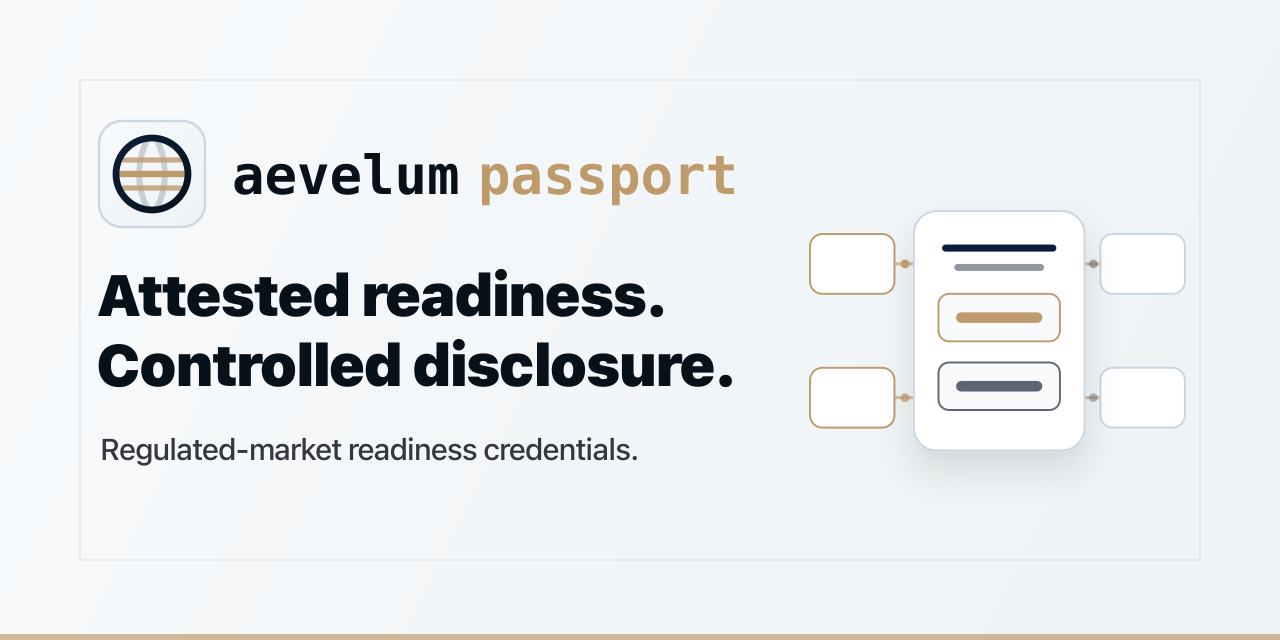
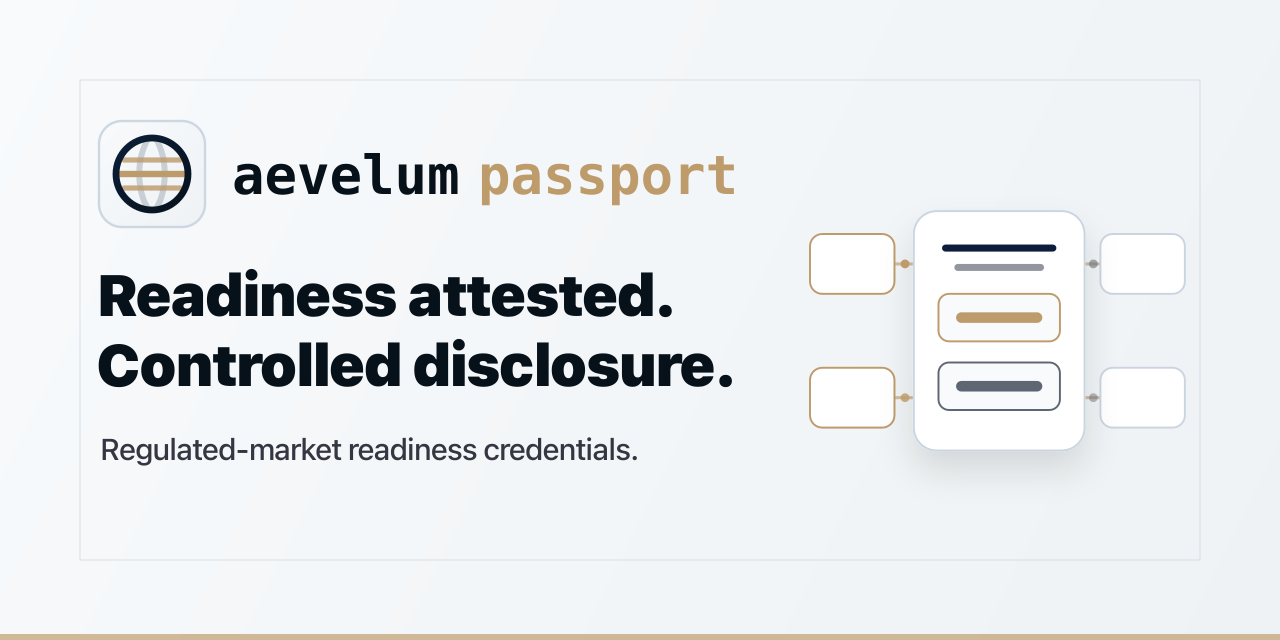
Use readiness-attested terminology
Replace public attested-readiness wording with readiness-attested/readiness-attestation copy across docs, gates, hardening metadata, generated reports, and visual assets.

Validated with npm run ci.

Changed region(s): [[0.0625, 0.4062, 0.5312, 0.5]]

diff --git a/docs/00_product_thesis.md b/docs/00_product_thesis.md
@@ -2,15 +2,15 @@
 
 Aevelum Passport is the public Canton/Daml foundation for private regulated-market readiness credentials. Collateral capacity is the first credential family.
 
-The product lets institutions issue, hold, present, bind, revoke, and audit externally attested readiness credentials for regulated-market workflows. Supported readiness families include participant eligibility, license or registration attestations, venue access readiness, product eligibility, operational capability, disclosure consent, settlement or clearing readiness evidence, and collateral capacity readiness.
+The product lets institutions issue, hold, present, bind, revoke, and audit readiness-attested credentials backed by external evidence for regulated-market workflows. Supported readiness families include participant eligibility, license or registration attestations, venue access readiness, product eligibility, operational capability, disclosure consent, settlement or clearing readiness evidence, and collateral capacity readiness.
 
 ## One-sentence UVP
 
-Passport lets institutions present attested readiness on Canton without exposing underlying evidence, legal files, operational files, or collateral inventory.
+Passport lets institutions present readiness attestations on Canton without exposing underlying evidence, legal files, operational files, or collateral inventory.
 
 ## Wedge
 
-Passport occupies the attested readiness layer:
+Passport occupies the readiness-attested layer:
 
 ```text
 external legal, regulatory, operational, custody, settlement, clearing, or collateral evidence
@@ -37,4 +37,4 @@ external legal, regulatory, operational, custody, settlement, clearing, or colla
 
 ## Design boundary
 
-Passport records attested readiness and scoped evidence only. Passport does not grant licenses, register participants, approve legal compliance, admit participants to a venue, execute repo, execute securities-lending trades, form trades, match orders, operate a venue, run a margin engine, settle transactions, clear transactions, custody assets, transfer collateral, transfer assets, issue tokens, optimize collateral, make credit decisions, operate a wallet, integrate production identity, provide live external integration, implement ZK proofs, or prove legal title.
+Passport records readiness attestations and scoped evidence only. Passport does not grant licenses, register participants, approve legal compliance, admit participants to a venue, execute repo, execute securities-lending trades, form trades, match orders, operate a venue, run a margin engine, settle transactions, clear transactions, custody assets, transfer collateral, transfer assets, issue tokens, optimize collateral, make credit decisions, operate a wallet, integrate production identity, provide live external integration, implement ZK proofs, or prove legal title.

diff --git a/README.md b/README.md
@@ -8,7 +8,7 @@ Aevelum Passport is the public Canton/Daml foundation for private regulated-mark
 
 It models readiness accounts, readiness policies, externally attested credential requests, credential issuance, scoped presentation, context binding, revocation, expiry-by-validity, venue-readiness evidence wrappers, and scoped audit disclosure. The existing collateral-capacity account, policy, presentation, reservation, residual capacity, revocation, expiry, dispute metadata, reservation handoff metadata, and audit disclosure templates remain available as the first credential family and demo workflow.
 
-Passport records attested readiness and scoped evidence only. Passport may record a reservation handoff notice. Passport does not grant licenses or legal permissions. Passport does not admit participants to a venue. Passport does not determine legal compliance. Passport does not operate a venue, exchange, ATS, SEF, MTF, regulated market, matching engine, order book, clearinghouse, custodian, settlement system, wallet, token issuer, legal-title oracle, credit engine, or production identity system. Passport does not execute the downstream trade. Passport does not custody, transfer, settle, clear, or move collateral or assets.
+Passport records readiness attestations and scoped evidence only. Passport may record a reservation handoff notice. Passport does not grant licenses or legal permissions. Passport does not admit participants to a venue. Passport does not determine legal compliance. Passport does not operate a venue, exchange, ATS, SEF, MTF, regulated market, matching engine, order book, clearinghouse, custodian, settlement system, wallet, token issuer, legal-title oracle, credit engine, or production identity system. Passport does not execute the downstream trade. Passport does not custody, transfer, settle, clear, or move collateral or assets.
 
 Readiness and collateral-capacity contracts use typed Daml `Time` fields where ledger-time validation matters. Existing ISO timestamp text fields remain display and interop metadata; downstream Canton/Daml consumers should compare typed `Time` fields against ledger time.
 

diff --git a/.agents/skills/passport-hardening-loop/SKILL.md b/.agents/skills/passport-hardening-loop/SKILL.md
@@ -9,7 +9,7 @@ description: Use inside the Passport repo while developing to keep invariants, a
 
 Use this skill when changing Passport code, Daml templates, interop adapters, release scripts, CI, or docs that affect security or architectural invariants.
 
-Passport scope is regulated-market readiness credentialing. Collateral capacity is the first credential family. Additional readiness credential families may include participant eligibility, license or registration attestations, venue access readiness, product eligibility, operational capability, disclosure consent, and settlement or clearing readiness evidence. These credentials record externally attested readiness only; Passport does not grant licenses, admit participants to a venue, operate a venue, execute trades, form trades, match orders, clear, settle, custody, transfer assets, issue tokens, operate wallets, determine legal title, decide credit, or determine legal compliance.
+Passport scope is regulated-market readiness credentialing. Collateral capacity is the first credential family. Additional readiness credential families may include participant eligibility, license or registration attestations, venue access readiness, product eligibility, operational capability, disclosure consent, and settlement or clearing readiness evidence. These credentials record external readiness attestations only; Passport does not grant licenses, admit participants to a venue, operate a venue, execute trades, form trades, match orders, clear, settle, custody, transfer assets, issue tokens, operate wallets, determine legal title, decide credit, or determine legal compliance.
 
 Adapter readiness changes are hardening-sensitive. If a change touches adapter behavior, adapter docs, interop reports, framework claims, partner/sandbox/production language, or readiness level, keep readiness metadata, the invariant map, frontier, hardening round or change log, generated interop report, and hardening gate in sync.
 

diff --git a/docs/02_foundation_release_scope.md b/docs/02_foundation_release_scope.md
@@ -4,7 +4,7 @@
 
 Aevelum Passport is the public Canton/Daml foundation for private regulated-market readiness credentials. Collateral capacity is the first credential family.
 
-Passport records attested readiness and scoped evidence only. It models readiness accounts, readiness policies, credential requests, credential issuance, scoped presentation, binding to workflow or venue-profile context, revocation, expiry-by-validity, audit disclosure, and venue-readiness evidence wrappers. It also preserves collateral-capacity accounts, collateral policies, counterparty-scoped presentation, bounded reservation, residual capacity, revocation, expiry, dispute metadata, reservation handoff metadata, and scoped audit disclosure as the first credential family. Passport may emit bounded interop artifacts and adapter-readiness reports.
+Passport records readiness attestations and scoped evidence only. It models readiness accounts, readiness policies, credential requests, credential issuance, scoped presentation, binding to workflow or venue-profile context, revocation, expiry-by-validity, audit disclosure, and venue-readiness evidence wrappers. It also preserves collateral-capacity accounts, collateral policies, counterparty-scoped presentation, bounded reservation, residual capacity, revocation, expiry, dispute metadata, reservation handoff metadata, and scoped audit disclosure as the first credential family. Passport may emit bounded interop artifacts and adapter-readiness reports.
 
 Passport may record a reservation handoff notice. The notice is for downstream readiness metadata only. Passport does not grant licenses or legal permissions. Passport does not admit participants to a venue. Passport does not determine legal compliance. Passport does not execute the downstream trade. Passport does not custody, transfer, settle, clear, or move collateral or assets.
 

diff --git a/docs/05_privacy_model.md b/docs/05_privacy_model.md
@@ -2,7 +2,7 @@
 
 Passport privacy is modeled through Daml signatories, observers, and choices.
 
-Passport records attested readiness and scoped evidence only. ReadinessCredential is visible to holder and attester. ReadinessCredentialActiveStatus is visible to holder, attester, and approved verifiers as a minimal revocation liveness witness, not as a raw credential. ReadinessPresentation and ReadinessBinding are visible to holder, attester, and verifier. ReadinessAuditDisclosureGrant is visible to the auditor. VenueReadinessEvidence is visible to holder, attester, and verifier. CapacityReservation is visible to holder, attester, and verifier. ReservationHandoffInstruction is visible to the handoff recipient. AuditDisclosureGrant is visible to the auditor.
+Passport records readiness attestations and scoped evidence only. ReadinessCredential is visible to holder and attester. ReadinessCredentialActiveStatus is visible to holder, attester, and approved verifiers as a minimal revocation liveness witness, not as a raw credential. ReadinessPresentation and ReadinessBinding are visible to holder, attester, and verifier. ReadinessAuditDisclosureGrant is visible to the auditor. VenueReadinessEvidence is visible to holder, attester, and verifier. CapacityReservation is visible to holder, attester, and verifier. ReservationHandoffInstruction is visible to the handoff recipient. AuditDisclosureGrant is visible to the auditor.
 
 ## Visibility by object
 

diff --git a/docs/07_non_goals.md b/docs/07_non_goals.md
@@ -1,6 +1,6 @@
 # 07 Non-Goals
 
-Passport records attested readiness and scoped evidence only: eligibility, presentation, binding, reservation, revocation, expiry-by-validity, audit, bounded interop artifacts, and adapter readiness reports. Passport may record a reservation handoff notice.
+Passport records readiness attestations and scoped evidence only: eligibility, presentation, binding, reservation, revocation, expiry-by-validity, audit, bounded interop artifacts, and adapter readiness reports. Passport may record a reservation handoff notice.
 
 ReadinessCredential is visible to holder and attester. ReadinessCredentialActiveStatus is visible to holder, attester, and approved verifiers as a minimal revocation liveness witness, not as a raw credential. ReadinessPresentation and ReadinessBinding are visible to holder, attester, and verifier. ReadinessAuditDisclosureGrant is visible to the auditor. VenueReadinessEvidence is visible to holder, attester, and verifier. CapacityReservation is visible to holder, attester, and verifier. ReservationHandoffInstruction is visible to the handoff recipient. AuditDisclosureGrant is visible to the auditor.
 

diff --git a/docs/06_interop_adapters.md b/docs/06_interop_adapters.md
@@ -4,7 +4,7 @@ Passport keeps its Daml templates as the Canton ledger schema and emits external
 
 Interop artifacts are bounded readiness artifacts. They do not make Passport a venue, exchange, ATS, SEF, MTF, regulated market, custody system, clearinghouse, settlement system, wallet, token-transfer system, token issuer, optimizer, credit decision engine, licensing authority, legal-compliance engine, production identity system, or live external integration.
 
-Passport can produce regulated-market readiness evidence and collateral-capacity artifacts. Adapter outputs remain external-format views over attested readiness; they do not grant licenses, admit participants to a venue, execute trades, clear, settle, custody, transfer assets, issue tokens, or operate wallets.
+Passport can produce regulated-market readiness evidence and collateral-capacity artifacts. Adapter outputs remain external-format views over readiness attestations; they do not grant licenses, admit participants to a venue, execute trades, clear, settle, custody, transfer assets, issue tokens, or operate wallets.
 
 The adapter surface is deliberately narrow:
 

diff --git a/AGENTS.md b/AGENTS.md
@@ -17,7 +17,7 @@
 
 ## Architecture Boundaries
 
-- Aevelum Passport is the public Canton/Daml foundation for private regulated-market readiness credentials. Collateral capacity is the first credential family. Passport records attested readiness and scoped evidence only, and may record reservation handoff notices.
+- Aevelum Passport is the public Canton/Daml foundation for private regulated-market readiness credentials. Collateral capacity is the first credential family. Passport records readiness attestations and scoped evidence only, and may record reservation handoff notices.
 - Keep Daml templates as the Canton ledger schema unless an explicit ADR and invariant-map update justify a change.
 - Keep interop framework-neutral: CDM is one static plugin, not repo-global special-case code.
 - Default PR CI should use standard GitHub-hosted runners with explicit Node, Java, DPM, and npm setup. Repo-authored validation and generation paths must not fetch schemas, plugin code, or mutable runtime inputs except through explicit vendoring commands.

diff --git a/docs/10_release_notes.md b/docs/10_release_notes.md
@@ -32,7 +32,7 @@ Passport 0.3.0 upgrades the public Canton/Daml foundation from collateral-readin
 
 ### Boundary
 
-Passport records attested readiness and scoped evidence only. Passport does not grant licenses, register participants, approve legal compliance, admit participants to a venue, operate a venue, execute trades, form trades, match orders, clear, settle, custody, transfer assets, issue tokens, operate wallets, decide credit, determine legal title, provide production identity, or provide live external integration.
+Passport records readiness attestations and scoped evidence only. Passport does not grant licenses, register participants, approve legal compliance, admit participants to a venue, operate a venue, execute trades, form trades, match orders, clear, settle, custody, transfer assets, issue tokens, operate wallets, decide credit, determine legal title, provide production identity, or provide live external integration.
 
 ## 0.2.0 - Typed Time Policy And Reservation Freshness
 

diff --git a/docs/01_daml_as_spec.md b/docs/01_daml_as_spec.md
@@ -20,7 +20,7 @@ Daml spec -> Daml Script tests -> committee demo -> thin service wrapper -> UI
 
 The initial build contains no API, database, web dashboard, or external integration. Those can wrap ledger commands after the Daml model is accepted.
 
-Passport is now a regulated-market readiness credential foundation. The Daml templates record externally attested readiness and scoped evidence; they do not grant licenses, determine legal compliance, admit participants to a venue, operate a venue, form trades, match orders, clear, settle, custody, transfer assets, issue tokens, or operate wallets.
+Passport is now a regulated-market readiness credential foundation. The Daml templates record external readiness attestations and scoped evidence; they do not grant licenses, determine legal compliance, admit participants to a venue, operate a venue, form trades, match orders, clear, settle, custody, transfer assets, issue tokens, or operate wallets.
 
 ## Current Daml contract set
 

diff --git a/hardening/rounds/round-0010.md b/hardening/rounds/round-0010.md
@@ -54,7 +54,7 @@ License or registration credentials require `LicenseAttestationScope.attestation
 
 ## Boundary
 
-Passport records attested readiness and scoped evidence only. It does not grant licenses, determine legal compliance, admit participants to a venue, operate a venue, execute trades, form trades, match orders, clear, settle, custody, transfer assets, issue tokens, operate wallets, decide credit, determine legal title, provide production identity, or provide live external integration.
+Passport records readiness attestations and scoped evidence only. It does not grant licenses, determine legal compliance, admit participants to a venue, operate a venue, execute trades, form trades, match orders, clear, settle, custody, transfer assets, issue tokens, operate wallets, decide credit, determine legal title, provide production identity, or provide live external integration.
 
 ## Verification
 

diff --git a/hardening/change-log.md b/hardening/change-log.md
@@ -2,6 +2,7 @@
 
 ## 2026-06-16 - docs-code congruence
 
+- Renamed public copy to readiness-attested/readiness-attestation language across docs, gates, invariant-map claims, and README/OG assets without changing Passport's evidence-only boundary.
 - Moved versioned README/scope prose into release-note language and rewrote current-facing README and scope docs to describe present Passport behavior without changelog-style "0.3.0 adds" phrasing.
 - Tightened adapter readiness evidence path normalization so bare, explicit, and normalized parent-directory references are rejected even when another valid proof reference is present.
 - Ran repo-audit campaign round-0011 and remedied five concrete findings: local DPM SDK env drift, out-of-repo readiness evidence references, unsafe adapter output path segments, missing SVG asset overclaim scanning, and review package omission of the generated core DAR.
